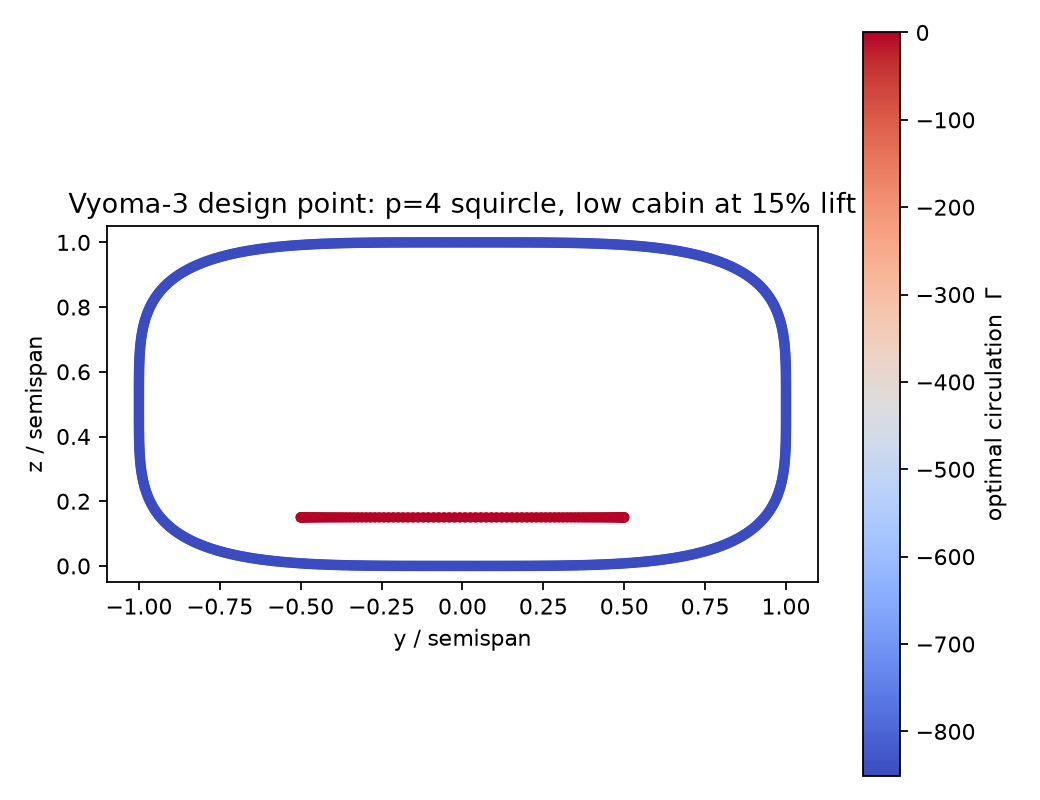
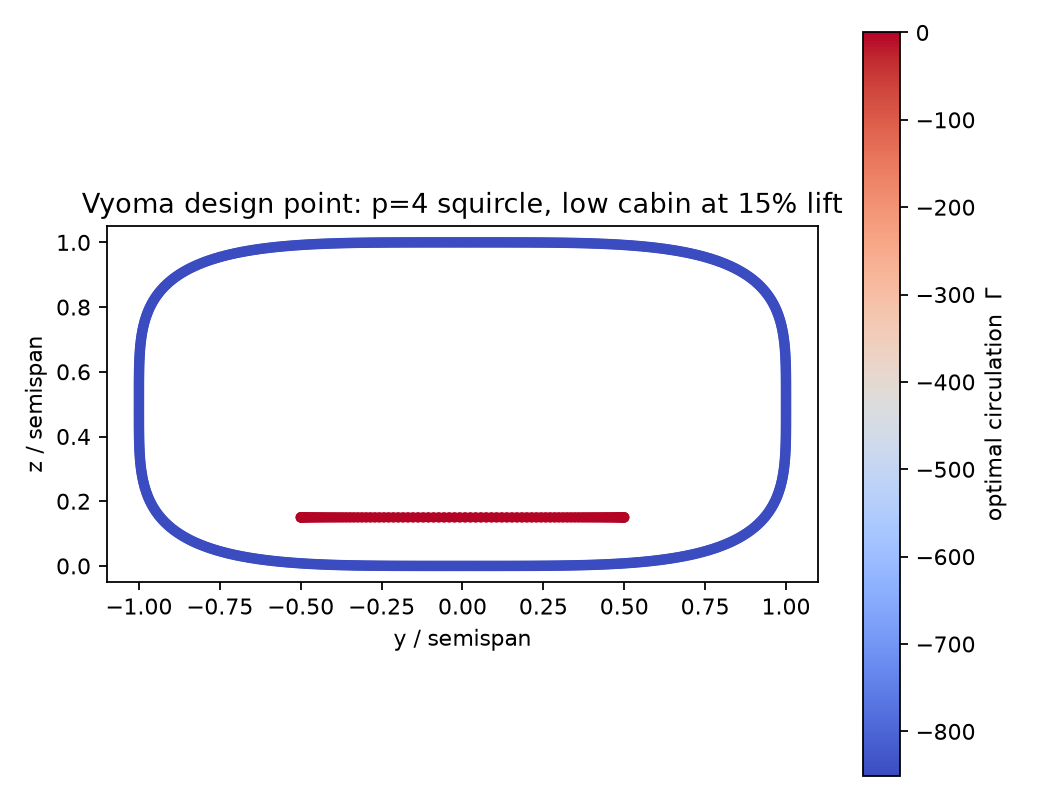
Rename design Vyoma-3 -> Vyoma across CFD/prototype files, figure title, and STL outputs

Changed region(s): [[0.0615, 0.2188, 0.8308, 0.2812]]

diff --git a/gen_stl.py b/gen_stl.py
@@ -1,4 +1,4 @@
-"""Generate a watertight STL of the Vyoma-3 prototype for CFD (SimScale).
+"""Generate a watertight STL of the Vyoma prototype for CFD (SimScale).
 
 Geometry (metres, full scale):
 - Ring: superellipse p=4 trace, span b=36 (a=18), height h=18 (h/b=0.5),
@@ -10,7 +10,7 @@ Geometry (metres, full scale):
   at this fidelity).
 
 Axes: x = downstream (flow direction), y = span, z = up.
-Output: vyoma3.stl (binary), plus vyoma3_ring_only.stl
+Output: vyoma.stl (binary), plus vyoma_ring_only.stl
 """
 
 import struct
@@ -145,7 +145,7 @@ def write_stl(path, shells):
         payload.append((v[good], unit[good]))
     total = sum(len(v) for v, _ in payload)
     with open(path, "wb") as f:
-        f.write(b"Vyoma-3 ring-wing prototype".ljust(80, b"\0"))
+        f.write(b"Vyoma ring-wing prototype".ljust(80, b"\0"))
         f.write(struct.pack("<I", total))
         for v, unit in payload:
             for k in range(len(v)):
@@ -162,8 +162,8 @@ def main():
     cv, ct = cabin_shells()
     ct = orient_outward(cv, ct)
 
-    write_stl("vyoma3_ring_only.stl", [(rv, rt)])
-    write_stl("vyoma3.stl", [(rv, rt), (cv, ct)])
+    write_stl("vyoma_ring_only.stl", [(rv, rt)])
+    write_stl("vyoma.stl", [(rv, rt), (cv, ct)])
 
     vol_r = signed_volume(rv, rt)
     vol_c = signed_volume(cv, ct)

diff --git a/run_extended.py b/run_extended.py
@@ -80,7 +80,7 @@ def main():
         print(f"  h/b={hb:.2f}   e={e:.5f}   e-(1+h/b)={dev:+.5f}")
     print(f"  max |deviation| = {dev_max:.5f}")
 
-    print("\n=== 8. Design point: Vyoma-3 squircle ring ===")
+    print("\n=== 8. Design point: Vyoma squircle ring ===")
     hb, p = 0.50, 4.0
     ring = tz.superellipse_ring(hb, p, n=768)
     e_free = tz.solve(ring)["e"]
@@ -100,7 +100,7 @@ def main():
     plt.gca().set_aspect("equal")
     plt.xlabel("y / semispan")
     plt.ylabel("z / semispan")
-    plt.title("Vyoma-3 design point: p=4 squircle, low cabin at 15% lift")
+    plt.title("Vyoma design point: p=4 squircle, low cabin at 15% lift")
     plt.tight_layout()
     plt.savefig("design_point_loading.png", dpi=160)
     print("wrote results_superellipse.csv, results_spine_height.csv + 3 figures")

diff --git a/SIMSCALE.md b/SIMSCALE.md
@@ -1,6 +1,6 @@
-# Running the Vyoma-3 prototype on SimScale
+# Running the Vyoma prototype on SimScale
 
-Files: `vyoma3.stl` (ring + cabin) and `vyoma3_ring_only.stl` (fallback if
+Files: `vyoma.stl` (ring + cabin) and `vyoma_ring_only.stl` (fallback if
 the two-body model gives meshing trouble). Full scale, metres.
 Regenerate anytime with `python gen_stl.py`.
 
@@ -8,8 +8,8 @@ Regenerate anytime with `python gen_stl.py`.
 
 1. Create a free Community account at simscale.com (community plan =
    public projects, cloud compute included).
-2. Dashboard -> New Project -> name it `vyoma3-ring-wing`.
-3. Import geometry -> upload `vyoma3.stl` -> units **metres**.
+2. Dashboard -> New Project -> name it `vyoma-ring-wing`.
+3. Import geometry -> upload `vyoma.stl` -> units **metres**.
 
 ## 2. Simulation setup (virtual wind tunnel)
 